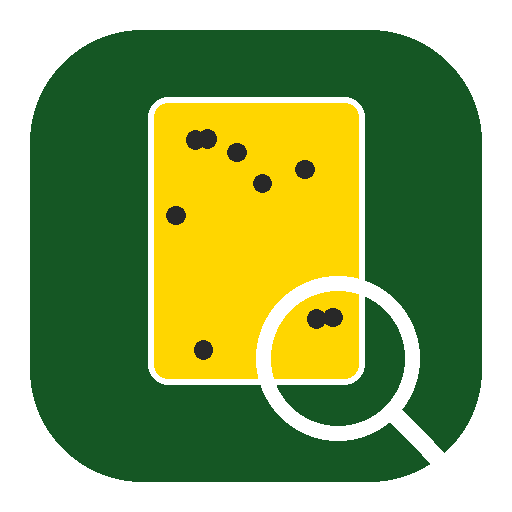
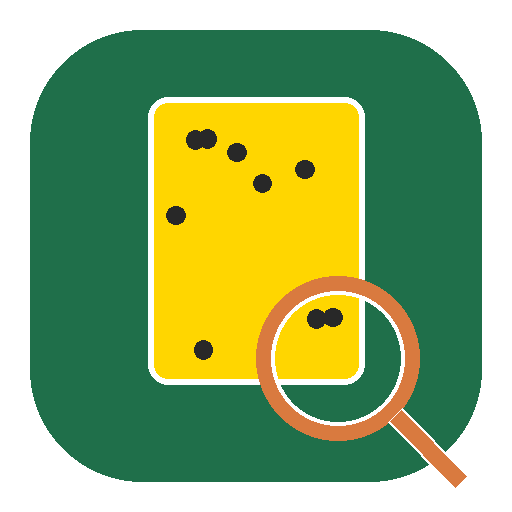
Rebrand naar Plantworld Scout-app met eigen thema en kleuren
Titel, app-naam en manifest hernoemd naar "Plantworld Scout-app".
Kleurenpalet vervangen door een jungle-groen met warme terracotta
accent (geinspireerd op Plantworld als kweker van tropische
kamerplanten), inclusief nieuwe app-iconen in dezelfde stijl.
Plantworld.com zelf was niet bereikbaar vanuit deze omgeving
(netwerk-egress geblokkeerd), dus dit is een best-effort interpretatie
op basis van beschikbare informatie over het merk.

Voegt een copyrightregel "© <jaar> Remco & Claude" toe onderaan het
instellingenscherm.

Claude-Session: https://claude.ai/code/session_01TPZVzcYfxY5qmFiQht9dBA

diff --git a/style.css b/style.css
@@ -1,14 +1,17 @@
 :root {
   color-scheme: light dark;
-  --bg: #f4f6f2;
+  --bg: #f7f3ea;
   --surface: #ffffff;
-  --text: #1c2318;
-  --muted: #5c6b57;
-  --border: #dde3d8;
-  --primary: #2e7d32;
+  --text: #21301f;
+  --muted: #6b7a63;
+  --border: #e3ddc9;
+  --primary: #1f6f4a;
+  --primary-dark: #123f29;
   --primary-text: #ffffff;
-  --secondary: #e8efe4;
-  --secondary-text: #1c2318;
+  --accent: #d97a3f;
+  --accent-text: #ffffff;
+  --secondary: #eaf0e2;
+  --secondary-text: #21301f;
   --danger: #b3261e;
   --warn-bg: #fff3cd;
   --warn-border: #f0c14b;
@@ -20,14 +23,17 @@
 
 @media (prefers-color-scheme: dark) {
   :root {
-    --bg: #12140f;
-    --surface: #1b1f16;
+    --bg: #10160f;
+    --surface: #182018;
     --text: #eef1ea;
     --muted: #a3ab9a;
-    --border: #333a2c;
-    --primary: #4caf50;
-    --primary-text: #08210b;
-    --secondary: #262c1e;
+    --border: #2b3327;
+    --primary: #4caf6c;
+    --primary-dark: #0d3822;
+    --primary-text: #06170d;
+    --accent: #e2915c;
+    --accent-text: #2b1204;
+    --secondary: #223124;
     --secondary-text: #eef1ea;
     --danger: #ff6b60;
     --warn-bg: #3a300a;
@@ -57,10 +63,17 @@ body {
   align-items: center;
   justify-content: space-between;
   padding: calc(0.9rem + env(safe-area-inset-top, 0px)) 1rem 0.9rem;
-  background: var(--primary);
+  background: linear-gradient(135deg, var(--primary), var(--primary-dark));
   color: var(--primary-text);
 }
-.app-header h1 { font-size: 1.1rem; margin: 0; }
+.app-header h1 {
+  font-size: 1.05rem;
+  margin: 0;
+  white-space: nowrap;
+  overflow: hidden;
+  text-overflow: ellipsis;
+  min-width: 0;
+}
 
 .icon-btn {
   background: none;
@@ -91,8 +104,8 @@ body {
   border-bottom: 3px solid transparent;
 }
 .tab-btn.active {
-  color: var(--primary);
-  border-bottom-color: var(--primary);
+  color: var(--accent);
+  border-bottom-color: var(--accent);
 }
 
 .tab-panel { display: none; padding: 0.9rem; max-width: 640px; margin: 0 auto; }
@@ -211,6 +224,13 @@ textarea { resize: vertical; font-family: inherit; }
 }
 
 .muted { color: var(--muted); font-size: 0.85rem; }
+
+.copyright {
+  text-align: center;
+  color: var(--muted);
+  font-size: 0.78rem;
+  margin: 1.2rem 0 0.2rem;
+}
 
 .totals-grid {
   display: grid;

diff --git a/index.html b/index.html
@@ -3,21 +3,21 @@
 <head>
 <meta charset="UTF-8">
 <meta name="viewport" content="width=device-width, initial-scale=1, viewport-fit=cover">
-<title>Plaagscouting Kwekerij</title>
-<meta name="theme-color" content="#155724">
-<meta name="description" content="Registratie en analyse van plaaginsecten per afdeling tijdens het scouten in de kwekerij.">
+<title>Plantworld Scout-app</title>
+<meta name="theme-color" content="#1f6f4a">
+<meta name="description" content="Registratie en analyse van plaaginsecten per afdeling tijdens het scouten bij Plantworld.">
 <link rel="manifest" href="manifest.webmanifest">
 <link rel="apple-touch-icon" href="icons/apple-touch-icon.png">
 <meta name="apple-mobile-web-app-capable" content="yes">
 <meta name="apple-mobile-web-app-status-bar-style" content="black-translucent">
-<meta name="apple-mobile-web-app-title" content="Scouting">
+<meta name="apple-mobile-web-app-title" content="Plantworld Scout">
 <link rel="icon" href="icons/icon-192.png">
 <link rel="stylesheet" href="style.css">
 </head>
 <body>
 
 <header class="app-header">
-  <h1>🐞 Plaagscouting</h1>
+  <h1>🌿 Plantworld Scout-app</h1>
   <button id="settingsBtn" class="icon-btn" title="Instellingen &amp; back-up" aria-label="Instellingen">⚙</button>
 </header>
 
@@ -173,6 +173,7 @@
     <input type="file" id="importFile" accept="application/json" class="hidden">
     <hr>
     <button id="btnResetData" class="btn danger">🗑 Alle data wissen</button>
+    <p class="copyright">© <span id="copyrightYear"></span> Remco &amp; Claude</p>
   </div>
 </div>
 

diff --git a/app.js b/app.js
@@ -625,6 +625,7 @@ function initShareButtons() {
 
 function initSettingsModal() {
   const modal = document.getElementById('settingsModal');
+  document.getElementById('copyrightYear').textContent = new Date().getFullYear();
   document.getElementById('settingsBtn').addEventListener('click', () => {
     document.getElementById('defaultEmails').value = settings.defaultEmails;
     document.getElementById('cardMaxDays').value = settings.cardMaxDays;

diff --git a/sw.js b/sw.js
@@ -1,4 +1,4 @@
-const CACHE_NAME = 'scouting-cache-v3';
+const CACHE_NAME = 'scouting-cache-v4';
 const ASSETS = [
   './',
   './index.html',

diff --git a/README.md b/README.md
@@ -1,6 +1,6 @@
-# Scouting
+# Plantworld Scout-app
 
-Plaagscouting-app voor op de telefoon, voor gebruik tijdens het scouten van plaaginsecten in de kwekerij.
+Plaagscouting-app voor op de telefoon, voor gebruik tijdens het scouten van plaaginsecten in de Plantworld-kwekerij.
 
 ## Wat kan de app?
 
